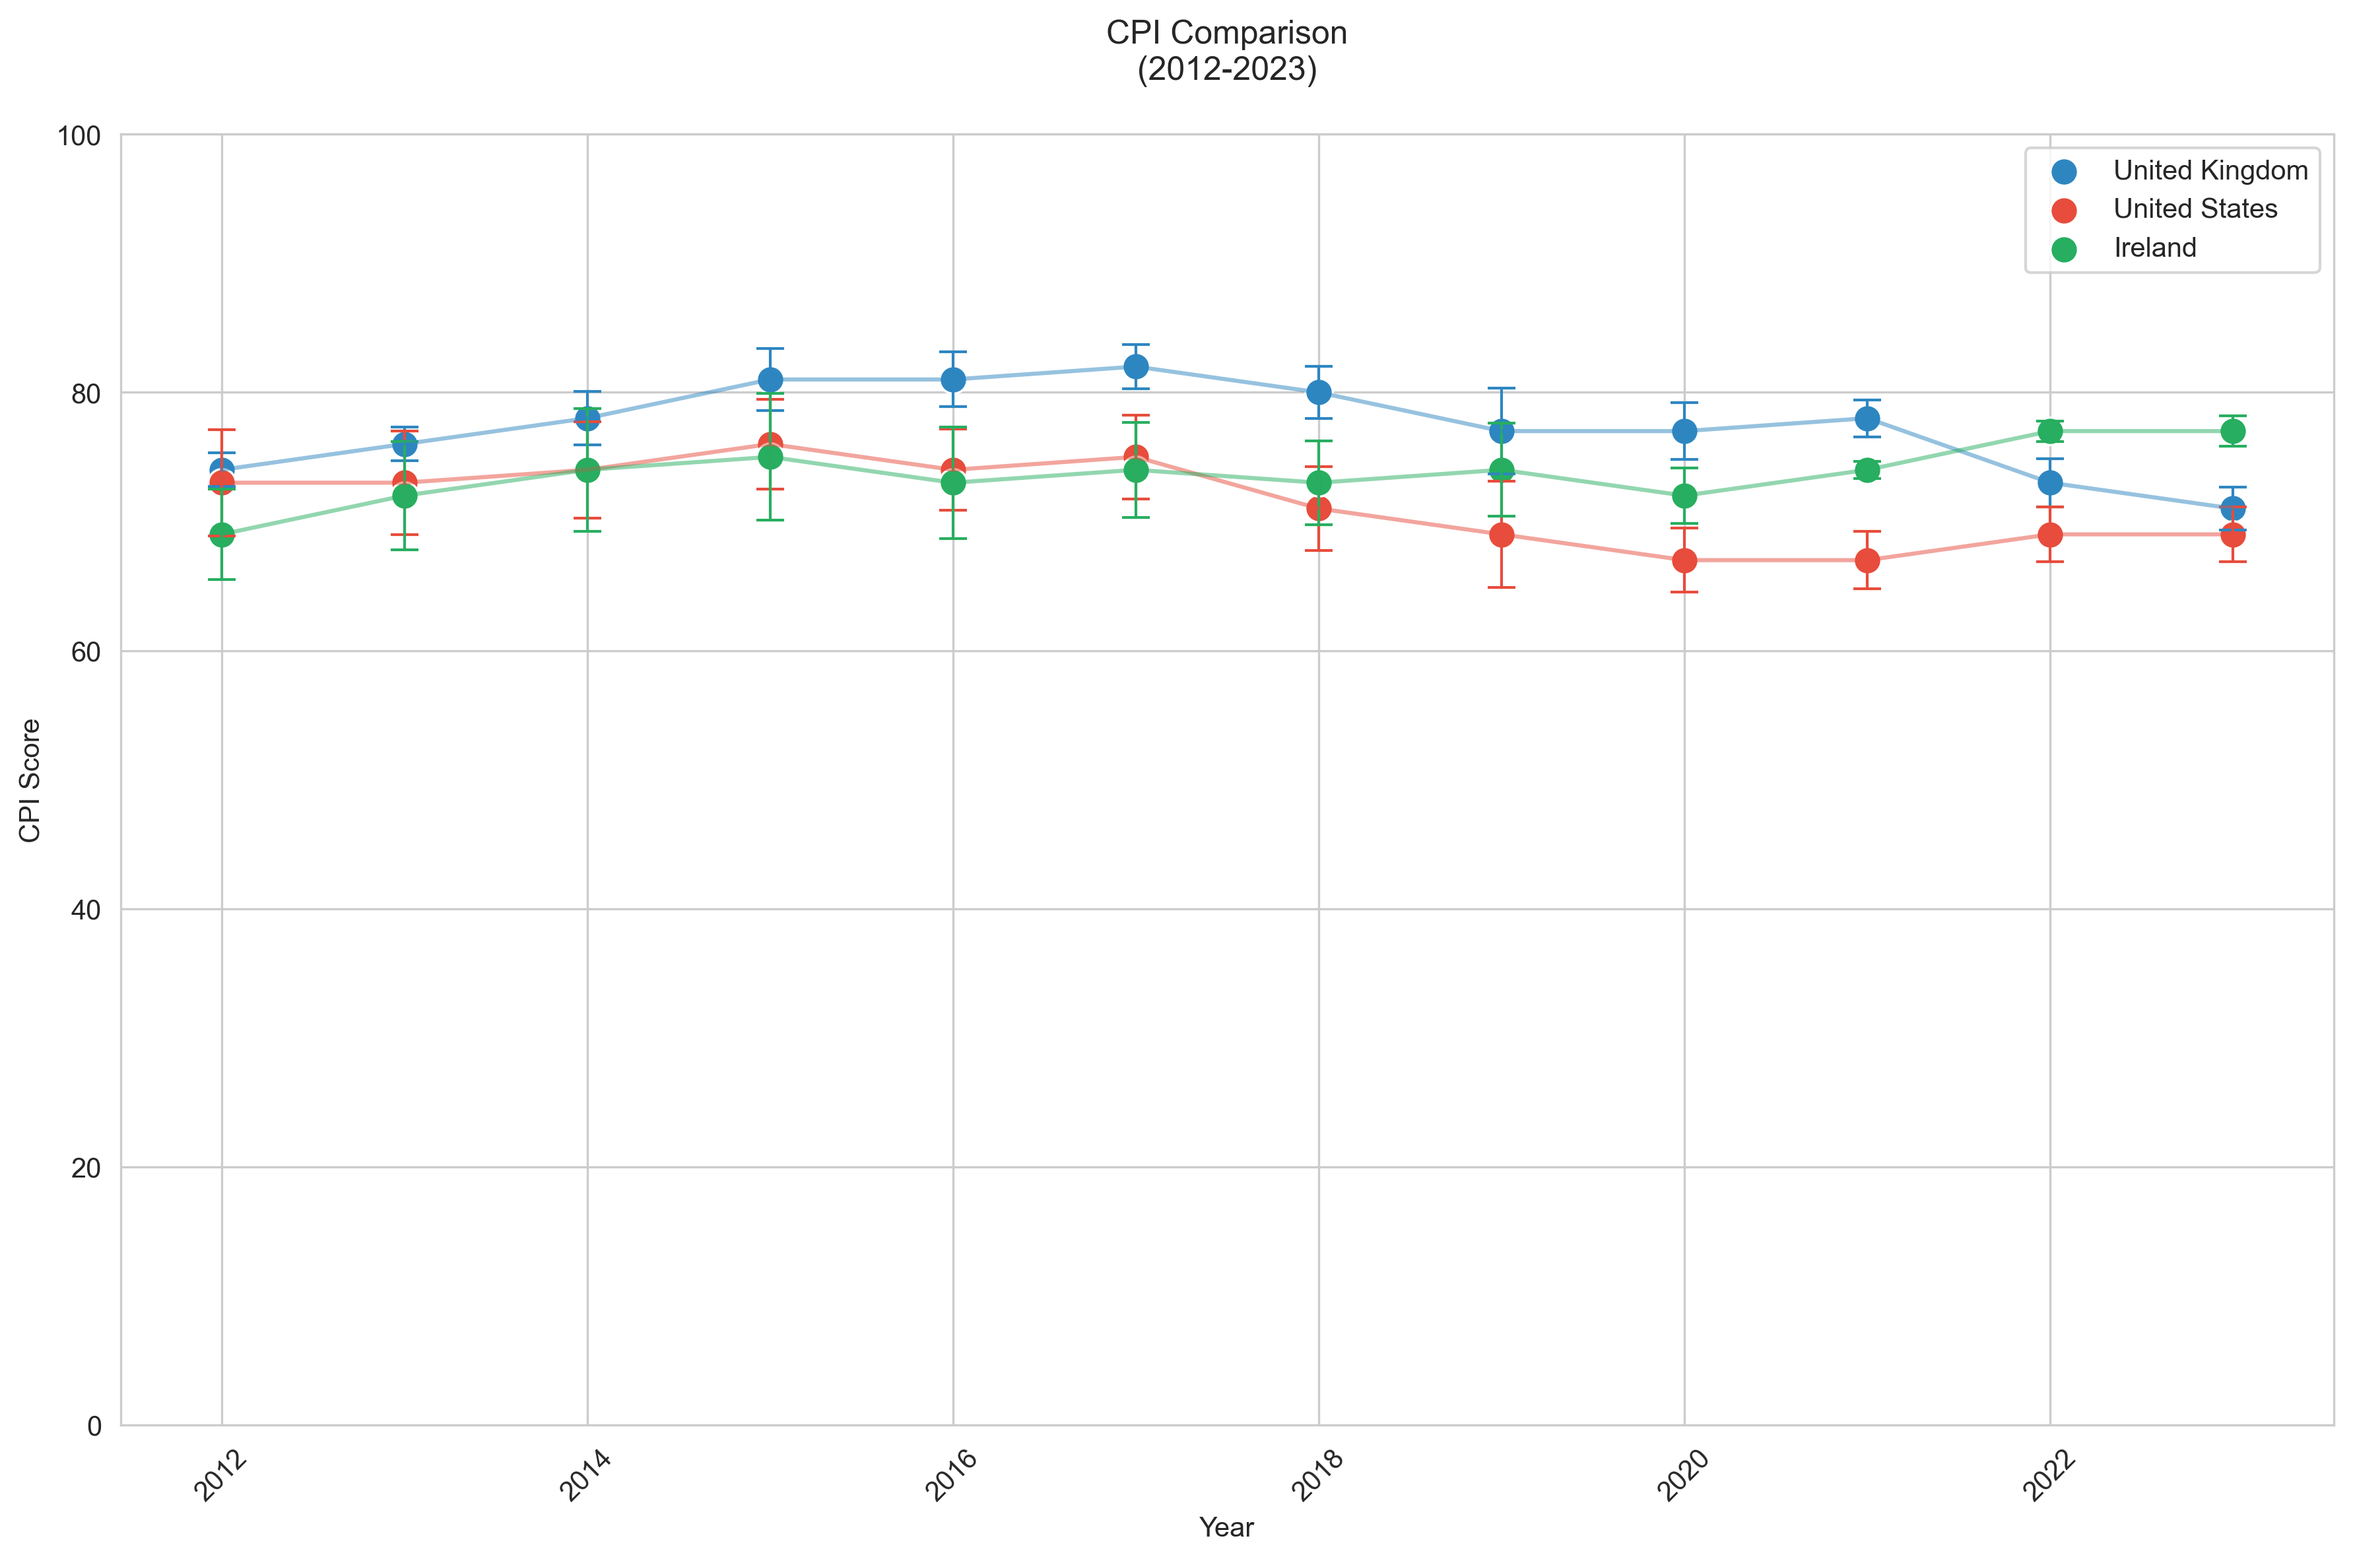
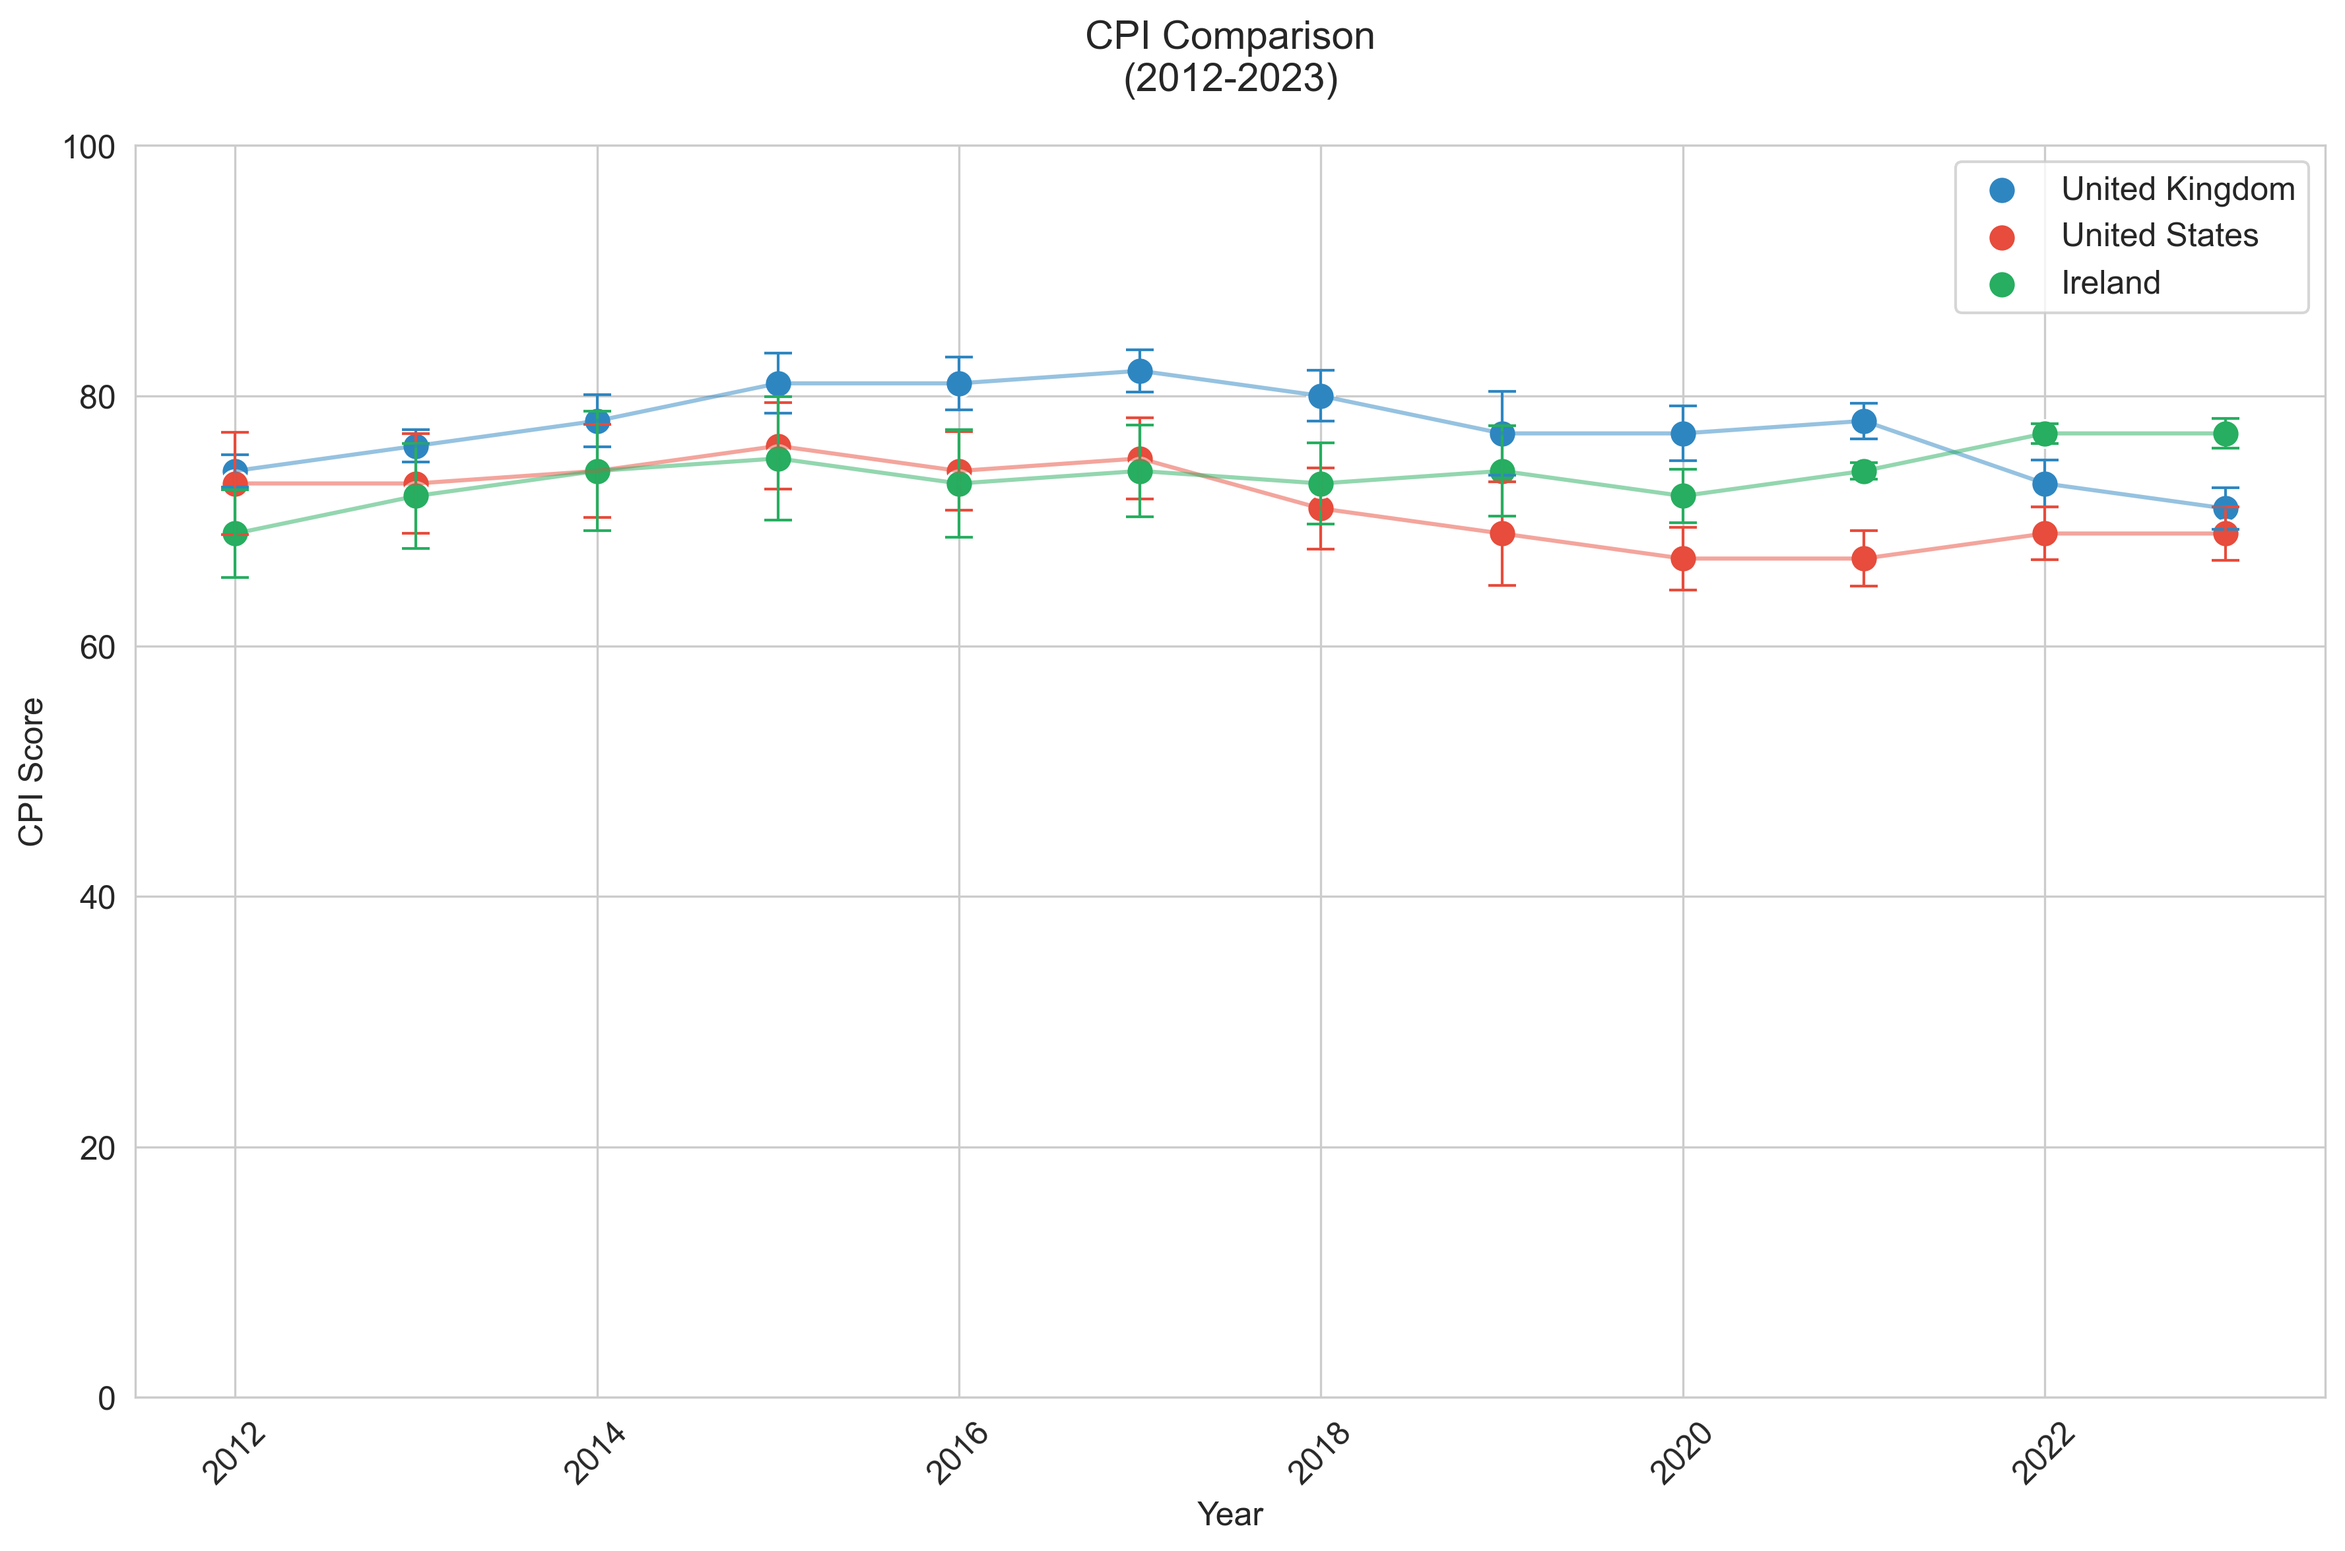
plots used for presentation

diff --git a/cpi_rank_plot.py b/cpi_rank_plot.py
@@ -22,6 +22,7 @@ ranks_by_year = pd.pivot_table(
 
 # Set style
 sns.set_style("whitegrid")
+plt.rcParams.update({'font.size': 14})  # Increased base font size from 12 to 14
 
 # Create plot with larger figure size to accommodate annotations
 plt.figure(figsize=(14, 10))
@@ -46,12 +47,12 @@ for year, (event, y_offset) in events.items():
                 ha='center',
                 bbox=dict(boxstyle='round,pad=0.5', fc='white', ec='gray', alpha=0.7),
                 arrowprops=dict(arrowstyle='->', connectionstyle='arc3,rad=0.2'),
-                fontsize=10)
+                fontsize=12)  # Increased from 10 to 12
 
 # Customize plot
-plt.title('CPI Rank Position Over Time with Key Events\n(2012-2023)', pad=20, fontsize=14)
-plt.xlabel('Year', fontsize=12)
-plt.ylabel('Rank Position\n(Lower is Better)', fontsize=12)
+plt.title('CPI Rank Position Over Time with Key Events\n(2012-2023)', pad=20, fontsize=16)  # Increased from 14 to 16
+plt.xlabel('Year', fontsize=14)  # Increased from 12 to 14
+plt.ylabel('Rank Position\n(Lower is Better)', fontsize=14)  # Increased from 12 to 14
 
 # Invert y-axis since lower rank numbers are better
 plt.gca().invert_yaxis()
@@ -63,11 +64,11 @@ plt.grid(True, linestyle='--', alpha=0.7)
 plt.xticks(rotation=45)
 
 # Add legend
-plt.legend(fontsize=10)
+plt.legend(fontsize=12)  # Increased from 10 to 12
 
 # Adjust layout to prevent annotation cutoff
 plt.tight_layout()
 
 # Save the plot
-plt.savefig('cpi_rank_comparison.png', dpi=300, bbox_inches='tight')
+plt.savefig('cpi_rank_comparison.png', dpi=300, bbox_inches='tight', transparent=True)
 plt.close() 

diff --git a/cpi_plots.py b/cpi_plots.py
@@ -20,6 +20,7 @@ df_ie = pd.DataFrame(ie_data)
 
 # Set style
 sns.set_style("whitegrid")
+plt.rcParams.update({'font.size': 12})  # Increase base font size
 
 # Create single plot
 plt.figure(figsize=(12, 8))
@@ -72,5 +73,5 @@ plt.legend()
 plt.tight_layout()
 
 # Save the plot
-plt.savefig('cpi_comparison.png', dpi=300, bbox_inches='tight')
+plt.savefig('cpi_comparison.png', dpi=300, bbox_inches='tight', transparent=True)
 plt.close()

diff --git a/ai_usage.py b/ai_usage.py
@@ -27,7 +27,7 @@ plt.ylabel("Percentage (%)", fontsize=14)
 plt.yticks(range(0, 101, 10))
 
 # Save as PNG
-plt.savefig("yearly_percentage_trend.png", dpi=300)
+plt.savefig("yearly_percentage_trend.png", dpi=300, transparent=True)
 
 # Show the plot
 plt.close()
